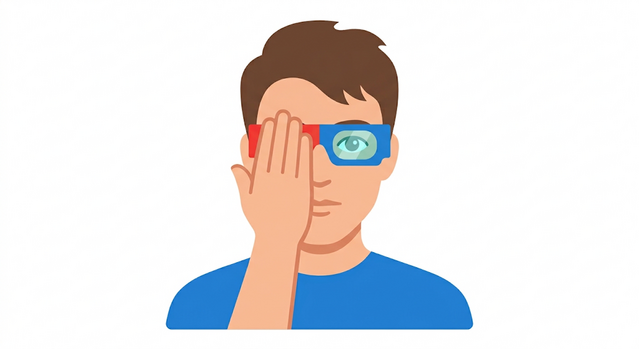
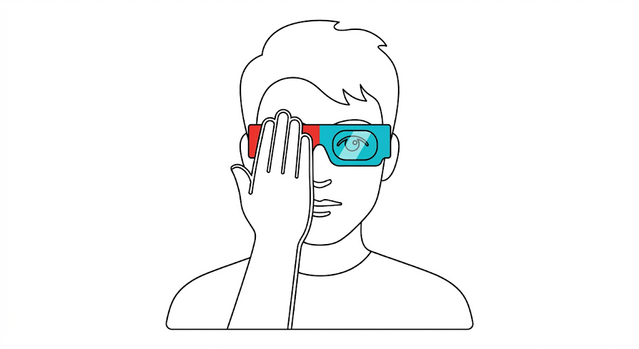
Move help tooltip beside the gear, swap its image, bare palette swatch
- The "?" button now sits right next to the calibration gear (bottom-right)
  instead of its own top-right corner; its tooltip opens upward from that
  same corner, matching the gear's own calibration panel.
- Replaced the tooltip illustration with the new line-art version.
- Palette switcher is now a plain swatch of the opposite palette's colour —
  no label text, no per-eye dots — discovered by tapping it.

Changed region(s): [[0.2379, 0.0573, 0.7433, 0.9456]]

diff --git a/src/styles/global.css b/src/styles/global.css
@@ -842,55 +842,22 @@ a {
   font-size: 17px;
   font-weight: 800;
 }
-/* Palette switcher, borrowed from a map's satellite/plain toggle: the
-   thumbnail always shows the palette you would switch *to*. */
+/* Palette switcher, borrowed from a map's satellite/plain toggle: always
+   shows the palette you would switch *to*, not the one you're on — nothing
+   but a plain swatch of that palette's own background colour, no label or
+   dots, so its function is discovered by tapping it. */
 .preview__layers {
   position: absolute;
-  left: 14px;
+  left: 16px;
   bottom: 16px;
   z-index: 3;
-  width: 74px;
-  height: 74px;
-  padding: 3px;
+  width: 56px;
+  height: 56px;
+  padding: 0;
   border: none;
-  border-radius: 12px;
-  background: var(--bg-elev);
+  border-radius: 14px;
   box-shadow: 0 2px 10px rgba(0, 0, 0, 0.45);
   cursor: pointer;
-}
-.preview__layers-tile {
-  position: relative;
-  display: flex;
-  align-items: center;
-  justify-content: center;
-  gap: 8px;
-  width: 68px;
-  height: 68px;
-  /* Reserves the caption strip's height so the dots centre in what is left
-     above it rather than in the whole tile. */
-  padding-bottom: 19px;
-  border-radius: 9px;
-  overflow: hidden;
-}
-.preview__layers-dot {
-  width: 16px;
-  height: 16px;
-  border-radius: 4px;
-}
-.preview__layers-cap {
-  position: absolute;
-  left: 0;
-  right: 0;
-  bottom: 0;
-  height: 19px;
-  line-height: 19px;
-  background: var(--bg-elev);
-  color: var(--text);
-  font-size: 9px;
-  font-weight: 700;
-  letter-spacing: 0.6px;
-  text-transform: uppercase;
-  text-align: center;
 }
 .preview__gear {
   position: absolute;
@@ -913,37 +880,37 @@ a {
   color: var(--primary);
 }
 /* An open dropdown is tall enough to reach the frame's bottom corners, where
-   these two live — on a narrow phone it would land right on top of them. They
-   step aside for as long as it is open. */
+   these three live — on a narrow phone it would land right on top of them.
+   They step aside for as long as it is open. */
 .preview__layers,
-.preview__gear {
+.preview__gear,
+.preview__help {
   transition: opacity 0.12s ease;
 }
 .preview.has-menu .preview__layers,
 .preview.has-menu .preview__gear,
-.preview.has-help .preview__layers,
-.preview.has-help .preview__gear {
+.preview.has-menu .preview__help {
   opacity: 0;
   pointer-events: none;
 }
-/* Same "?" affordance as the calibration gear, opposite corner: a quick
+/* Same "?" affordance as the calibration gear, right beside it: a quick
    reminder of how to actually use the contrast control (cover the lazy eye,
    watch the good eye's square), not buried in a help page. */
 .preview__help {
   position: absolute;
-  top: 16px;
-  right: 16px;
+  right: 76px;
+  bottom: 16px;
   z-index: 3;
   display: flex;
   align-items: center;
   justify-content: center;
-  width: 32px;
-  height: 32px;
+  width: 48px;
+  height: 48px;
   border: 1px solid var(--border);
   border-radius: 50%;
   background: var(--bg-elev);
   color: var(--text);
-  font-size: 15px;
+  font-size: 17px;
   font-weight: 800;
   box-shadow: 0 2px 10px rgba(0, 0, 0, 0.45);
   cursor: pointer;
@@ -951,10 +918,11 @@ a {
 .preview__help.is-open {
   color: var(--primary);
 }
+/* Opens upward from the same corner as the gear's own calibration panel. */
 .contrast-help {
   position: absolute;
-  top: 56px;
   right: 16px;
+  bottom: 94px;
   z-index: 2;
   width: min(260px, calc(100% - 32px));
   padding: 12px;

diff --git a/src/components/SettingsPanel.tsx b/src/components/SettingsPanel.tsx
@@ -256,7 +256,7 @@ export function SettingsPanel({ open, calibration, gameplaySettings, capabilitie
       }
     >
       <div className="settings">
-        <div className={`preview ${openMenu !== null ? 'has-menu' : ''} ${helpOpen ? 'has-help' : ''}`} style={{ background: activeColors[0] }}>
+        <div className={`preview ${openMenu !== null ? 'has-menu' : ''}`} style={{ background: activeColors[0] }}>
           <div className="preview__eyes">
             {eyeSlots.map((slot) => (
               <div key={slot} className="preview__eye">
@@ -350,16 +350,16 @@ export function SettingsPanel({ open, calibration, gameplaySettings, capabilitie
             </div>
           )}
 
-          {/* Palette switcher, Google-Maps-style: the thumbnail always shows the
-              palette you would get by tapping it, never the one you are on. */}
-          <button type="button" className="preview__layers" onClick={swapPalette} aria-label={t(`palette.${otherIdx === PALETTE_LOW_CONTRAST ? 'violet' : 'white'}`)}>
-            <span className="preview__layers-tile" style={{ background: otherColors[0] }}>
-              {eyeSlots.map((slot) => (
-                <span key={slot} className="preview__layers-dot" style={{ background: `${otherColors[slot]}${draftGameplay.opacity[slot]}` }} />
-              ))}
-              <span className="preview__layers-cap">{t(`palette.${otherIdx === PALETTE_LOW_CONTRAST ? 'violet' : 'white'}`)}</span>
-            </span>
-          </button>
+          {/* Palette switcher, Google-Maps-style: a plain swatch of the palette
+              you would get by tapping it, never the one you are on — no label,
+              its function is discovered by touch. */}
+          <button
+            type="button"
+            className="preview__layers"
+            style={{ background: otherColors[0] }}
+            onClick={swapPalette}
+            aria-label={t(`palette.${otherIdx === PALETTE_LOW_CONTRAST ? 'violet' : 'white'}`)}
+          />
 
           <button
             type="button"
